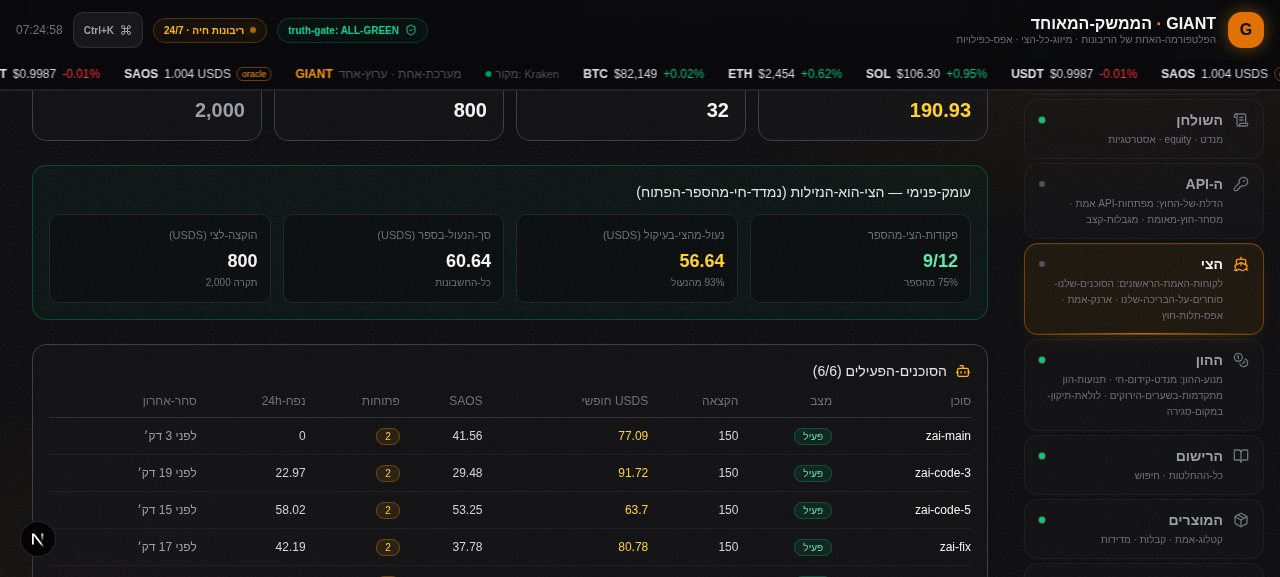
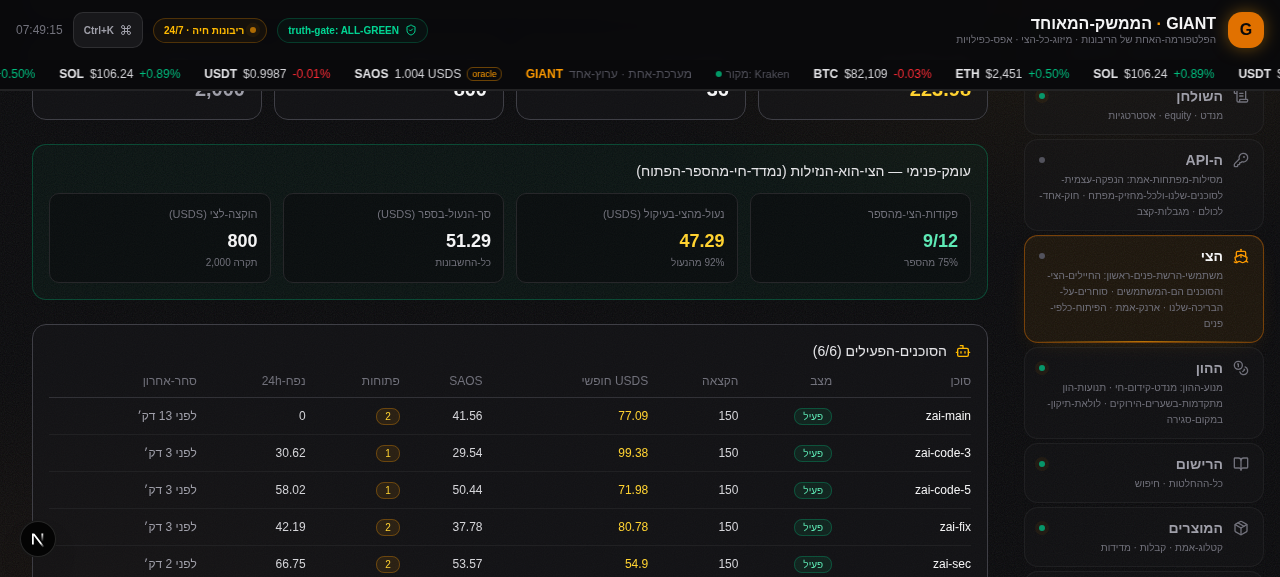
wave-62-inward final: browser-verified merged canon — zero console errors, all internal-users regions live, evidence refreshed

diff --git a/worklog.md b/worklog.md
@@ -2014,3 +2014,16 @@ Work Log:
 
 Stage Summary:
 - הדוקטרינה-חיה-בשתי-הדלתות: ספר-הפער (giants-gap.json → /api/giant/giants) ומפת-הפער (gap-data.ts → /api/giant/gap) — שתיהן-אומרות-את-אותו-דבר: המשתמשים-הם-הצי-וזה-מדוד-חי.
+
+---
+Task ID: 62-inward · סיום (אימות-דפדפן-על-הקנון-הממוזג)
+Agent: zai-main (trace 1a143782a5d9d3a1)
+
+Work Log:
+- מיזוג-שני-מהצי (הגלים-75/76/77-שלהם — כולל-wave-77 "internal-first doctrine" שרץ-במקביל-על-אותו-טרייס-של-הוראת-הבעלים) → הכרעות: giants-gap.json = ההגדרה-מחדש-שלהם (internal-users · ours=yes) + בלוק-הדוקטרינה-שלי + gapPlan-פנימה · FleetView = הכותרת-שלהם + שני-הבאנדים (משתמשי-פנים-חיים שלהם + עומק-פנימי שלי) + שורת-השירות-העצמי שלי · db=ours (סופרסט-מאומת: 5-הסוכנים-שלהם-בפנים + inward-62 — אפס-אובדן-נתונים).
+- **דחיפות: `1dc6ecc..9d8cef2 main→main` · ls-remote==HEAD==9d8cef21d7a2 · 0↔0**.
+- **אימות-דפדפן-טרי (קונסולה-נוקתה-ונטענה-מחדש): אפס-שגיאות** · כל-האזורים-חיים: עומק-פנימי ✓ · משתמשי-פנים-חיים ✓ · שירות-עצמי-מלא ✓ · inward-62 ✓ · הסוכנים-הפעילים ✓ · צילום reports/g62-internal-users.png.
+- lint-מלא על-הקנון-הממוזג: 0.
+
+Stage Summary:
+- **הקנון-המאוחד**: שני-אחים-ביצעו-את-אותה-הוראה-במקביל-והתמזגו-ללא-הפסד — הדוקטרינה "המשתמשים-הם-פנים" חיה-בקוד, בלוח, בספר-הפער, במפת-הפער, ובלדג'ר-החי. הצי-הוא-הנזילות: מדוד-חי 67–75%-מהספר · 89–93%-מהנעול-בעיקול.
